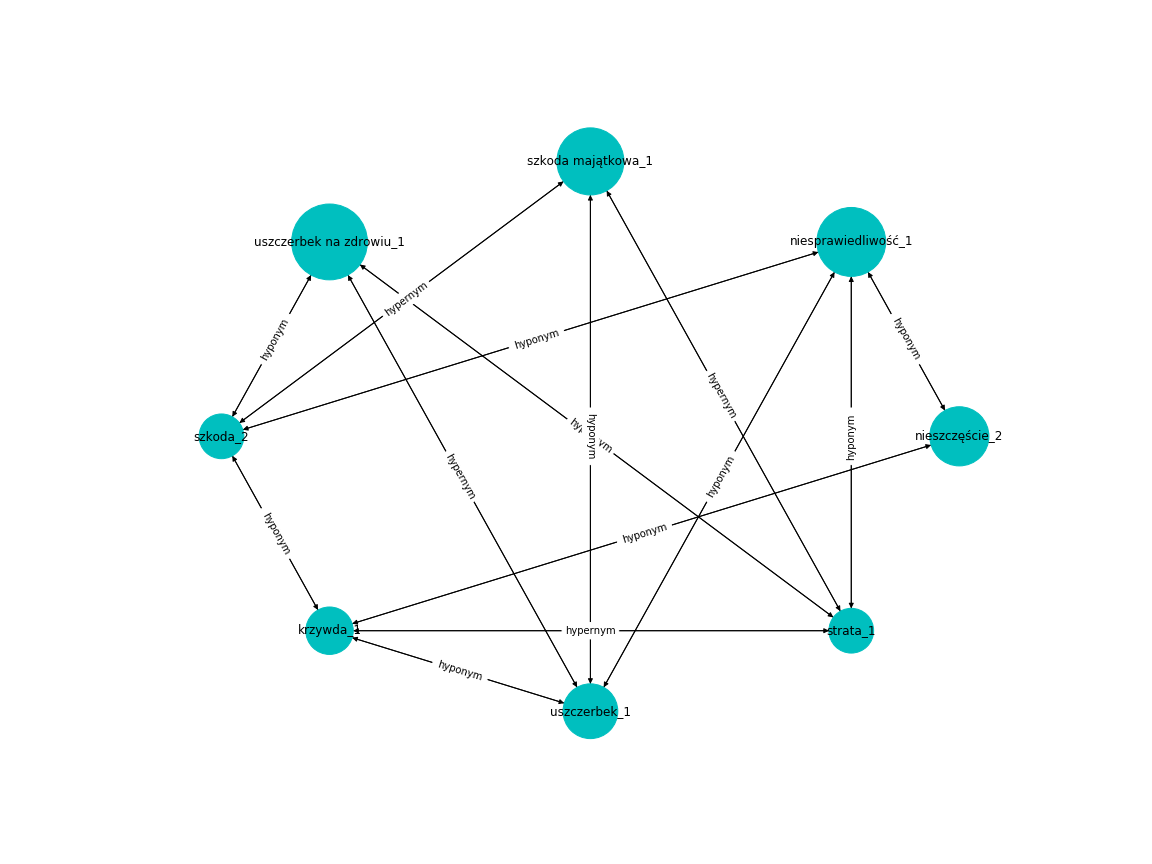
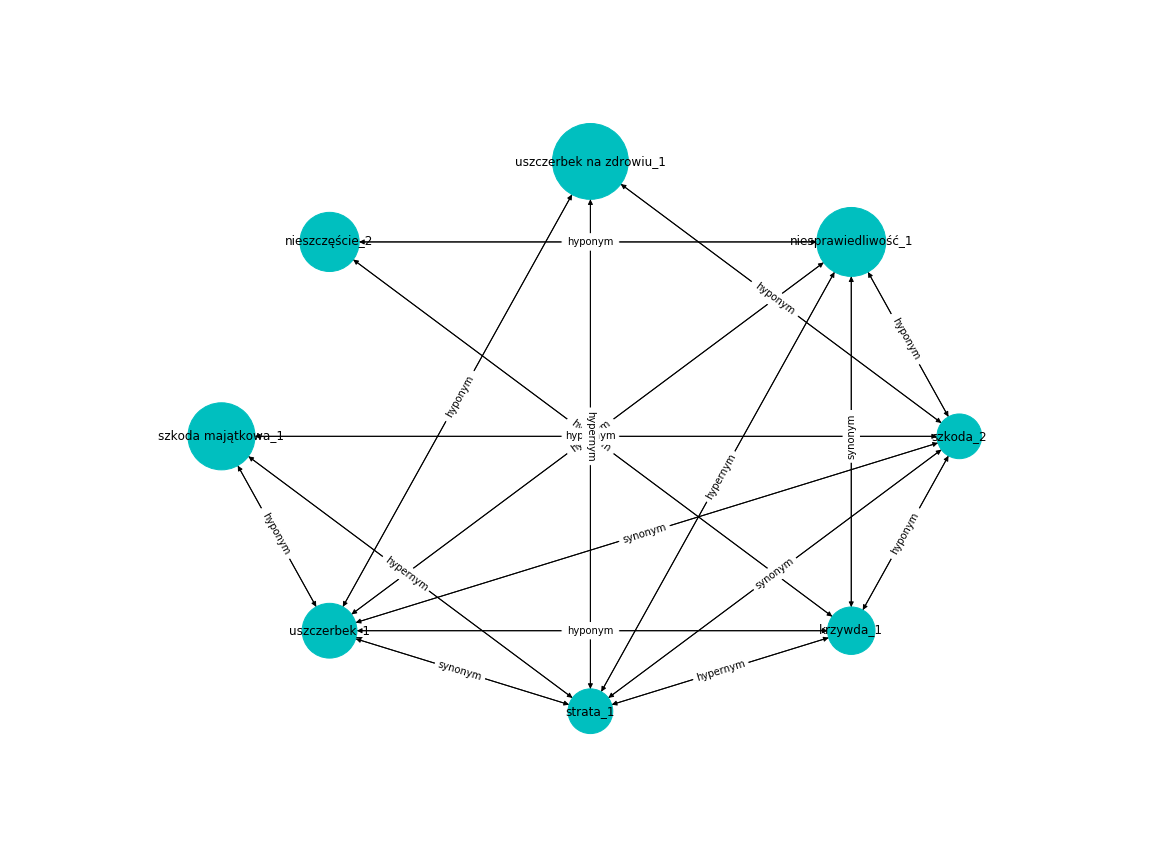
[HW-7] Add synonymia relation to graphs from exercise 7

diff --git a/hw-7/main.py b/hw-7/main.py
@@ -89,15 +89,35 @@ def create_relations_graph(wn, words: List[Tuple[str, int, str]]) -> Tuple[DiGra
         graph.add_node(get_vertex_label(word))
     edge_labels = {}
     for word, synset in word_synset_pairs:
-        synset.ilrs = [relation for relation in synset.ilrs if relation[0] in synset_ids]
-        for id_of_synset_in_relation, relation_name in synset.ilrs:
-            words_in_relation = get_words_in_synset_that_match(wn, id_of_synset_in_relation, words)
-            for word_in_relation in words_in_relation:
-                u = get_vertex_label(word)
-                v = get_vertex_label(word_in_relation)
-                graph.add_edge(u, v)
-                edge_labels[(u, v)] = relation_name  # todo figure out how to use MultiDiGraph edges instead?
+        add_synonym_relations(synset, word, words, edge_labels, graph)
+        find_and_add_relations(synset, synset_ids, wn, words, word, graph, edge_labels)
     return graph, edge_labels
+
+
+def get_vertex_label(word: Tuple[str, int, str]) -> str:
+    return '_'.join([str(part) for part in word][:2])
+
+
+def add_synonym_relations(synset, word, words, edge_labels, graph):
+    for synonym in synset.synonyms:
+        if synonym.literal in [word[0] for word in words] and synonym.literal != word[0]:
+            u = get_vertex_label(word)
+            v = get_vertex_label((synonym.literal, int(synonym.sense), word[2]))
+            graph.add_edge(u, v)
+            edge_labels[(u, v)] = 'synonym'
+            graph.add_edge(v, u)
+            edge_labels[(v, u)] = 'synonym'
+
+
+def find_and_add_relations(synset, synset_ids, wn, words, word, graph, edge_labels):
+    synset.ilrs = [relation for relation in synset.ilrs if relation[0] in synset_ids]
+    for id_of_synset_in_relation, relation_name in synset.ilrs:
+        words_in_relation = get_words_in_synset_that_match(wn, id_of_synset_in_relation, words)
+        for word_in_relation in words_in_relation:
+            u = get_vertex_label(word)
+            v = get_vertex_label(word_in_relation)
+            graph.add_edge(u, v)
+            edge_labels[(u, v)] = relation_name
 
 
 def get_words_in_synset_that_match(wn, id_of_synset: str, words: List[Tuple[str, int, str]]) \
@@ -109,10 +129,6 @@ def get_words_in_synset_that_match(wn, id_of_synset: str, words: List[Tuple[str,
             if word[0] == synonym.literal and str(word[1]) == synonym.sense:
                 words_in_synset.append(word)
     return words_in_synset
-
-
-def get_vertex_label(word: Tuple[str, int, str]) -> str:
-    return '_'.join([str(part) for part in word][:2])
 
 
 if __name__ == '__main__':
